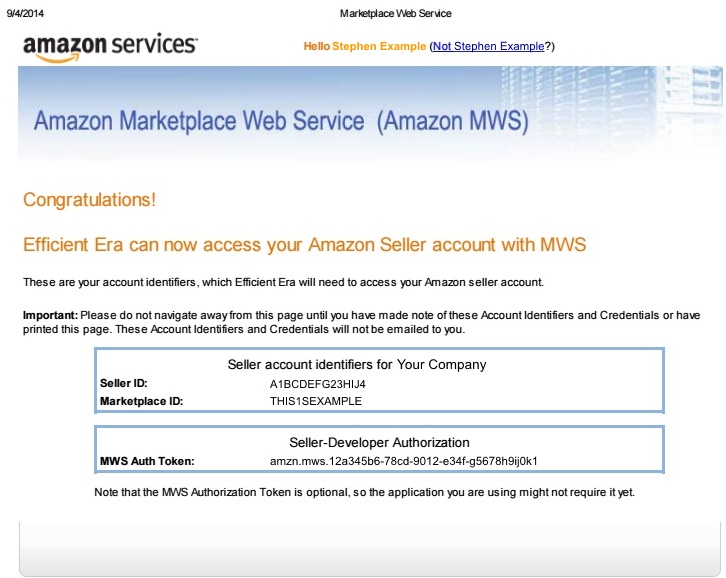
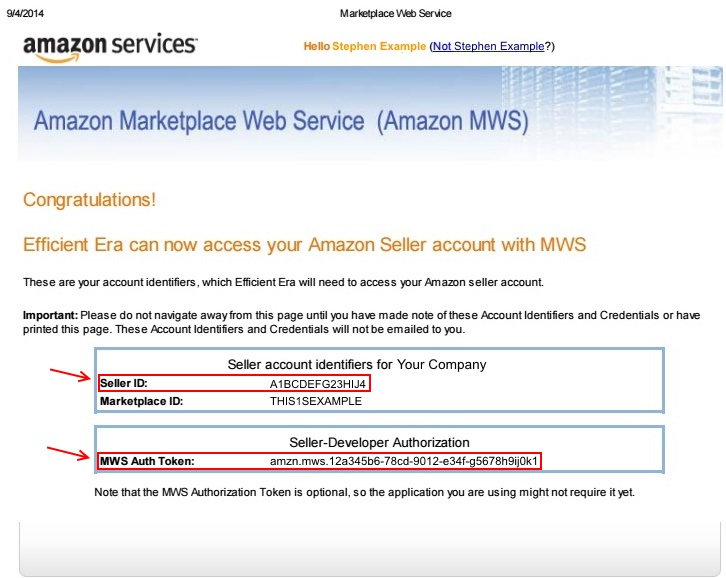
Updated Registering MWS help post

Changed region(s): [[0.0909, 0.7785, 0.7576, 0.8408], [0.1212, 0.6228, 0.5152, 0.6851], [0.0606, 0.6228, 0.1212, 0.654]]

diff --git a/content/blog/registering-mws.md b/content/blog/registering-mws.md
@@ -6,26 +6,42 @@ Tags: Customer Service, Amazon, Getting Started
 Summary: Efficient Era accesses your Amazon Seller account by using Marketplace Web Services. In order to connect the services, here’s what you need to do.
 Status: published
 
-Efficient Era accesses your Amazon Seller account by using [Marketplace Web Services](https://sellercentral.amazon.com/gp/mws/registration/register.html?%2AVersion%2A=1&%2Aentries%2A=0&signInPageDisplayed=1 "MWS") (MWS). In order to connect the services, here’s what you need to do. 
+The MWS Authorization Token and Seller ID are an important part of what Efficient Era needs to provide you its service. Here’s a step-by-step guide on how to get them (don’t worry, your data is safe with us). 
 
-In order to allow Efficient Era access for North America, you need to go to the [Amazon.com](https://sellercentral.amazon.com/gp/mws/registration/register.html?%2AVersion%2A=1&%2Aentries%2A=0&signInPageDisplayed=1 "MWS") or [Amazon.co.uk](https://sellercentral.amazon.com/gp/mws/registration/register.html?%2AVersion%2A=1&%2Aentries%2A=0&signInPageDisplayed=1 "MWS") site and register for MWS, making sure to select the ‘I want to give a developer access to my Amazon seller account with MWS’ option.
+### Giving Efficient Era Developer Access to your Seller Central Account
 
-* Registering a second time under this new setting will not change any existing credentials if you’ve already registered for MWS. 
-* The Developer’s Name is **Efficient Era**. 
-* The Developer Account Number depends on which region you are registering:
-    * For North America(Amazon.com, .ca, etc): **2546-9853-2013**
-    * For Europe(Amazon.co.uk, .de, .fr, etc): **0585-4477-0074**
+1. Go to your Seller Central account and click [“Register for MWS”](https://developer.amazonservices.com/gp/mws/registration/register.html).  
 
-[![MWS Step 1](/images/blog/2015/08/registering_amazon_mws_1.jpg "MWS Step 1")](https://sellercentral.amazon.com/gp/mws/registration/register.html?%2AVersion%2A=1&%2Aentries%2A=0&signInPageDisplayed=1)
+2. Select the option **“I want to give a developer access to my Amazon seller account with MWS.”**
 
-Once you have finished the registration process, you’ll receive the information you need to register your account with Efficient Era, like below.
+3. Input the Developer Name as **“Efficient Era”.**
+4. Input the Developer Account Number based on which region you’re registering from:  
+North America (amazon.com/.com.mx/.ca): **2546-9853-2013**  
+Europe (amazon.co.uk/.fr/.de/.it/.es): **0585-4477-0074**  
 
-[![MWS Step 2](/images/blog/2015/08/registering_amazon_mws_2.jpg "MWS Step 2")](https://sellercentral.amazon.com/gp/mws/registration/register.html?%2AVersion%2A=1&%2Aentries%2A=0&signInPageDisplayed=1)
+5. Make sure your page looks like the image below.
+![MWS Registration Page](/images/blog/2015/08/registering_amazon_mws_1.jpg)  
 
-* Carefully make note of all the information, including the MWS Auth Token, or print the page.
+6. Hit Continue.
 
-Navigate to the Efficient Era “Account Settings” page, and under the “Credentials” tab, input the Seller ID (also known as Merchant ID), Marketplace ID, and the MWS Auth Token that you received. See screenshot below.
+### Inputting MWS Authorization Token and Seller ID
 
-[![MWS Step 3](/images/blog/2015/08/registering_amazon_mws_3.jpg "MWS Step 3")](https://app.efficientera.com/login/?next=/settings/)
+1. The next page you see should have the information you need to connect Efficient Era to your Seller Central account, as below.
+![MWS Information Page](/images/blog/2015/08/registering_amazon_mws_2.jpg)
 
-* The Seller ID and Marketplace ID should be the same as when you registered the first time - registering again does not affect these in any way.
+2. If you haven’t already, navigate to the [Amazon Marketplace Credentials page][SettingsLink] of Efficient Era by clicking [this link][SettingsLink], or by clicking on the settings icon in the top right of the Efficient Era homepage, clicking on **Account Settings**, then clicking on the **Amazon Marketplace Credentials** tab.
+
+[SettingsLink]: https://app.efficientera.com/settings/credentials/com/
+
+3. Copy the **MWS Auth Token** number and paste it under the **MWS Authorization Token** field.
+
+4. Copy the **Seller ID** number and paste it under the **Seller ID** field.
+
+5. Make sure your page looks like the image below.
+![MWS Information Page](/images/blog/2015/08/registering_amazon_mws_3.jpg)
+
+6. Hit Submit, **and you’re done!**
+
+
+
+
